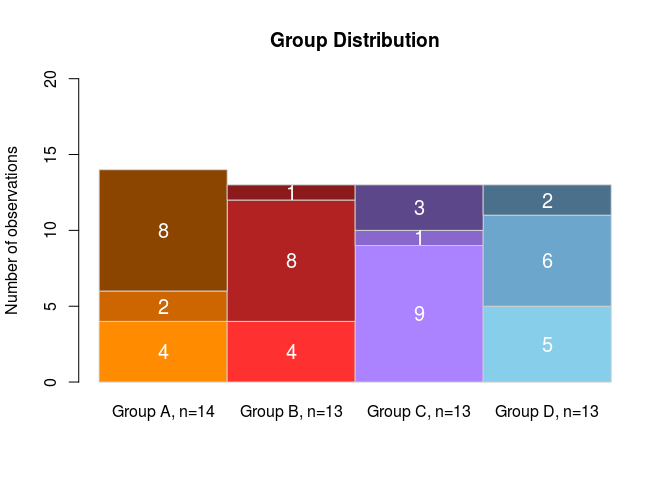
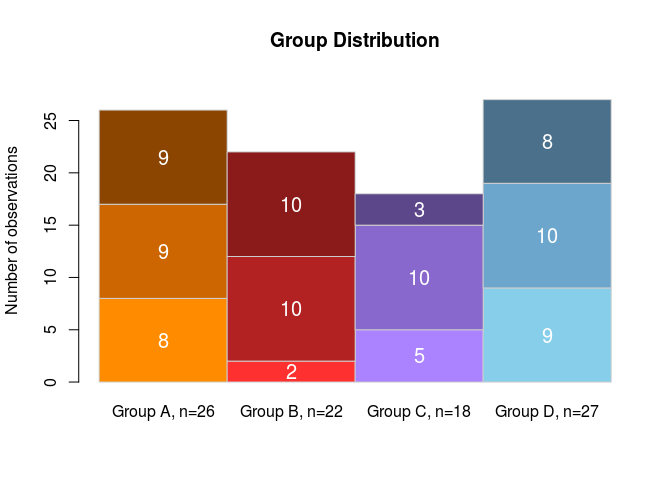
stacked barplot

diff --git a/R-stacked_barplot/README.md b/R-stacked_barplot/README.md
@@ -15,7 +15,8 @@ Here we'll plot the number of observations in four groups, and three possible co
 1. Excluded
 2. Included
 3. Incomplete
-&gt; NOTE: Border color, color, and space could be different per stack and per bar.
+
+> NOTE: Border color, color, and space could be different per stack and per bar.
 
 ``` r
 # Matrix of 3x4, 3 conditions, 4 groups. Filled with random values
@@ -29,13 +30,13 @@ colnames(groups) <- c("Group A", "Group B", "Group C", "Group D")
 
 # Barplot with the first row
 labs<- paste(colnames(groups), ", n=", apply(groups,2,sum), sep="") # number of observation per group
-barplot(groups[1,],                       # Input data as vector
-        main = "Group Distribution",      # Main title
-        names.arg =labs,                  # X labels
-        space=0,                          # Space between columns
-        ylim=c(0,20),                     # Y-axis limits
-        ylab = "Number of observations",  # Y-axis label
-        border="gray80",                  # Box color border
+barplot(groups[1,],                            # Input data as vector
+        main = "Group Distribution",           # Main title
+        names.arg =labs,                       # X labels
+        space=0,                               # Space between columns
+        ylim=c(0,max(apply(groups,2,sum))+2),  # Y-axis limits
+        ylab = "Number of observations",       # Y-axis label
+        border="gray80",                       # Box color border
         col = c("darkorange","firebrick1","mediumpurple1","skyblue")   # Box colors
         )
 
@@ -69,7 +70,6 @@ Stacked plot: Grades
 --------------------
 
 Now let's suppouse we have the grades of one student. Each column corresponds to the course and the rows to the grades.
-\#\#\# Raw Grades
 
 ``` r
 # Matrix of 3x4, 3 conditions, 4 groups. Filled with random values
@@ -87,10 +87,10 @@ kable(grades)
 
 |               |  Math|  Biology|  Physics|  Chemistry|
 |---------------|-----:|--------:|--------:|----------:|
-| Homeworks     |    97|       79|       59|         90|
-| Final Exam    |    76|       76|       79|         92|
-| Partial Exams |    51|       62|       99|         55|
-| Exercises     |    63|       84|       51|         55|
+| Homeworks     |    89|       70|       59|         51|
+| Final Exam    |    64|       71|       69|         89|
+| Partial Exams |    86|       94|       52|         93|
+| Exercises     |    74|       61|       98|         56|
 
 ### Grades Percentage
 
@@ -106,10 +106,10 @@ kable(grades.per)
 
 |               |   Math|  Biology|  Physics|  Chemistry|
 |---------------|------:|--------:|--------:|----------:|
-| Homeworks     |  24.25|    19.75|    14.75|      22.50|
-| Final Exam    |  19.00|    19.00|    19.75|      23.00|
-| Partial Exams |  12.75|    15.50|    24.75|      13.75|
-| Exercises     |  15.75|    21.00|    12.75|      13.75|
+| Homeworks     |  22.25|    17.50|    14.75|      12.75|
+| Final Exam    |  16.00|    17.75|    17.25|      22.25|
+| Partial Exams |  21.50|    23.50|    13.00|      23.25|
+| Exercises     |  18.50|    15.25|    24.50|      14.00|
 
 ### Grades Stacked Barplots
 
